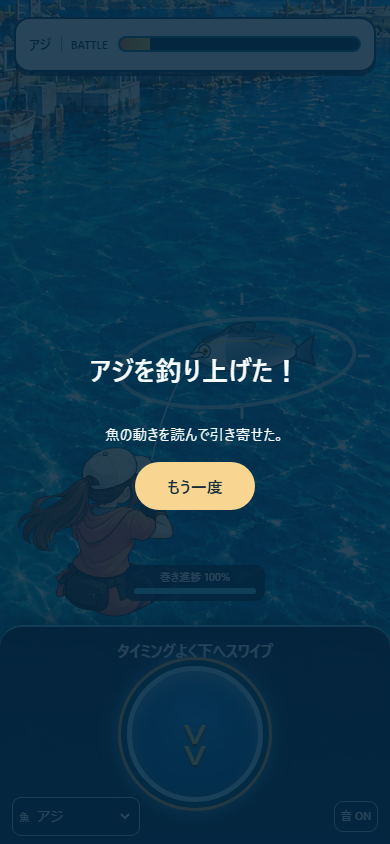
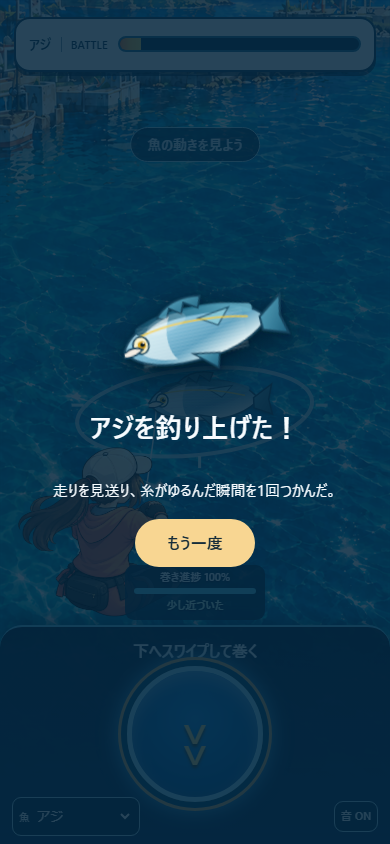
Make AINAN fishing battle clearer and more emotional (#131)

diff --git a/fishing-battle/style.css b/fishing-battle/style.css
@@ -1,1 +1,2 @@
-:root{font-family:system-ui,"Hiragino Kaku Gothic ProN",sans-serif;color:#f7fcff;background:#031d31}*{box-sizing:border-box}body{margin:0}.game{height:100dvh;display:grid;place-items:center}.board{position:relative;width:min(100vw,calc(100dvh * 390 / 844));height:min(100dvh,calc(100vw * 844 / 390));overflow:hidden;background:#0579aa url('./assets/harbor-water.png') center/100% 100% no-repeat;touch-action:none}canvas{position:absolute;inset:0;width:100%;height:100%}.top{position:absolute;z-index:2;top:2%;left:3.5%;width:93%;height:6.5%;min-height:48px;display:flex;align-items:center;gap:10px;padding:0 13px;background:#faffff;border:2px solid #173c56;border-radius:16px;box-shadow:0 4px 0 #001b32a6;color:#12324d}.fish-name{font-size:clamp(13px,3.5vw,18px);font-weight:800;white-space:nowrap}.top strong{font-size:11px;border-left:1px solid #7f9eaf;padding-left:9px}.track{height:16px;background:#092d48;border:2px solid #2c7296;border-radius:30px;overflow:hidden}.top .track{flex:1}.track i{display:block;height:100%;width:0;transition:width .12s}.danger i{background:linear-gradient(90deg,#ff7d39,#ffbd4b,#f9d55c)}.progress{position:absolute;top:67%;left:50%;transform:translateX(-50%);z-index:2;min-width:140px;padding:4px 9px 7px;background:#052944dc;border-radius:9px;text-align:center;font-size:11px;font-weight:800;text-shadow:0 1px 2px #002}.progress .track{height:6px;border:0;margin-top:4px}.progress .track i{background:#5bd5f5}.cue{position:absolute;z-index:3;top:15%;left:50%;transform:translateX(-50%);width:max-content;max-width:90%;padding:7px 16px;border-radius:30px;background:#062e50d9;border:1px solid #b4effe;text-align:center;font-size:14px;font-weight:900;opacity:0;transition:opacity .16s}.cue.rage,.cue.opening{opacity:1}.cue.rage{background:#b82728e9;border-color:#ffc7ae}.cue.opening{background:#055679e9}.controls{position:absolute;z-index:3;bottom:0;left:0;width:100%;height:26%;min-height:150px;display:flex;flex-direction:column;align-items:center;justify-content:flex-start;background:linear-gradient(#061d36f5,#082f55);border-top:2px solid #6dcaf1;border-radius:22px 22px 0 0;box-shadow:0 -5px 18px #001d3b88}.controls p{font-size:clamp(13px,4vw,17px);font-weight:900;margin:13px 0 5px;text-align:center}#reel{width:min(35vw,145px);height:min(35vw,145px);min-width:105px;min-height:105px;border-radius:50%;border:5px solid #9ee4fd;background:radial-gradient(circle at 50% 38%,#178dde,#0361aa 70%,#063c77);box-shadow:0 0 0 6px #06486c,0 0 0 9px #d9ab64,0 0 18px 11px #51caff99,inset 0 7px 16px #c1ebff70;color:#f9dc82;touch-action:none;cursor:pointer}#reel span{display:block;font-size:54px;line-height:.38;transform:translateY(-10px);text-shadow:0 3px 3px #453917}#reel:active{transform:scale(.96)}#rageLabel{margin-top:32px;background:#e6493b;border-radius:11px;padding:12px 18px;font-weight:900}#rageLabel[hidden]{display:none}.controls.is-raging #reel{display:none}.settings{position:absolute;z-index:4;bottom:1%;left:3%;right:3%;display:flex;justify-content:space-between;align-items:center;pointer-events:none}.settings>*{pointer-events:auto}.settings label,.settings button{background:#052841d9;border:1px solid #a2d6e9;border-radius:9px;color:#fff;font-size:11px;padding:3px 6px}.settings select{background:#052841;color:#fff;border:0;max-width:105px}.settings button,.settings select{min-height:31px}.result{position:absolute;z-index:8;inset:0;background:#03253cdb;display:flex;flex-direction:column;align-items:center;justify-content:center;text-align:center;padding:25px}.result[hidden]{display:none}.result h1{font-size:clamp(26px,7vw,36px)}.result p{font-size:15px;line-height:1.7}.result button{min-height:48px;border:0;border-radius:30px;background:#f8d692;color:#162d3a;font:inherit;font-weight:900;padding:10px 32px;cursor:pointer}@media(max-height:700px){.controls{height:28%}.controls p{margin:8px 0 4px}#reel{min-width:88px;min-height:88px;width:26vw;height:26vw}#reel span{font-size:42px}.progress{top:65%}}@media(prefers-reduced-motion:reduce){*,*:before,*:after{animation-duration:.001ms!important;transition-duration:.001ms!important}}
+:root{font-family:system-ui,"Hiragino Kaku Gothic ProN",sans-serif;color:#f7fcff;background:#031d31}*{box-sizing:border-box}body{margin:0}.game{height:100dvh;display:grid;place-items:center}.board{position:relative;width:min(100vw,calc(100dvh * 390 / 844));height:min(100dvh,calc(100vw * 844 / 390));overflow:hidden;background:#0579aa url('./assets/harbor-water.png') center/100% 100% no-repeat;touch-action:none}canvas{position:absolute;inset:0;width:100%;height:100%}.top{position:absolute;z-index:2;top:2%;left:3.5%;width:93%;height:6.5%;min-height:48px;display:flex;align-items:center;gap:10px;padding:0 13px;background:#faffff;border:2px solid #173c56;border-radius:16px;box-shadow:0 4px 0 #001b32a6;color:#12324d}.fish-name{font-size:clamp(13px,3.5vw,18px);font-weight:800;white-space:nowrap}.top strong{font-size:11px;border-left:1px solid #7f9eaf;padding-left:9px}.track{height:16px;background:#092d48;border:2px solid #2c7296;border-radius:30px;overflow:hidden}.top .track{flex:1}.track i{display:block;height:100%;width:0;transition:width .12s}.danger i{background:linear-gradient(90deg,#ff7d39,#ffbd4b,#f9d55c)}.progress{position:absolute;top:67%;left:50%;transform:translateX(-50%);z-index:2;min-width:140px;padding:4px 9px 7px;background:#052944dc;border-radius:9px;text-align:center;font-size:11px;font-weight:800;text-shadow:0 1px 2px #002}.progress .track{height:6px;border:0;margin-top:4px}.progress .track i{background:#5bd5f5}#action{display:block;min-height:1.4em;margin-top:3px;color:#d9faff;font-size:11px}#action.danger-action{color:#ffd0aa}#action.good-action{color:#d2ffef}.cue{position:absolute;z-index:3;top:15%;left:50%;transform:translateX(-50%);width:max-content;max-width:90%;padding:7px 16px;border-radius:30px;background:#062e50d9;border:1px solid #b4effe;text-align:center;font-size:14px;font-weight:900;opacity:.92;transition:opacity .16s}.cue.warning{background:#8c5322ef;border-color:#ffe3a9}.cue.rage{background:#b82728e9;border-color:#ffc7ae}.cue.opening{background:#055679e9}.controls{position:absolute;z-index:3;bottom:0;left:0;width:100%;height:26%;min-height:150px;display:flex;flex-direction:column;align-items:center;justify-content:flex-start;background:linear-gradient(#061d36f5,#082f55);border-top:2px solid #6dcaf1;border-radius:22px 22px 0 0;box-shadow:0 -5px 18px #001d3b88}.controls p{font-size:clamp(13px,4vw,17px);font-weight:900;margin:13px 0 5px;text-align:center}#reel{width:min(35vw,145px);height:min(35vw,145px);min-width:105px;min-height:105px;border-radius:50%;border:5px solid #9ee4fd;background:radial-gradient(circle at 50% 38%,#178dde,#0361aa 70%,#063c77);box-shadow:0 0 0 6px #06486c,0 0 0 9px #d9ab64,0 0 18px 11px #51caff99,inset 0 7px 16px #c1ebff70;color:#f9dc82;touch-action:none;cursor:pointer}#reel span{display:block;font-size:54px;line-height:.38;transform:translateY(-10px);text-shadow:0 3px 3px #453917}#reel:active{transform:scale(.96)}#rageLabel{margin-top:32px;background:#e6493b;border-radius:11px;padding:12px 18px;font-weight:900}#rageLabel[hidden]{display:none}.controls.is-raging #reel{display:none}.settings{position:absolute;z-index:4;bottom:1%;left:3%;right:3%;display:flex;justify-content:space-between;align-items:center;pointer-events:none}.settings>*{pointer-events:auto}.settings label,.settings button{background:#052841d9;border:1px solid #a2d6e9;border-radius:9px;color:#fff;font-size:11px;padding:3px 6px}.settings select{background:#052841;color:#fff;color-scheme:dark;border:0;max-width:105px}.settings button,.settings select{min-height:31px}.result{position:absolute;z-index:8;inset:0;background:#03253cdb;display:flex;flex-direction:column;align-items:center;justify-content:center;text-align:center;padding:25px}.result[hidden]{display:none}.result h1{font-size:clamp(26px,7vw,36px)}.result p{font-size:15px;line-height:1.7}.result button{min-height:48px;border:0;border-radius:30px;background:#f8d692;color:#162d3a;font:inherit;font-weight:900;padding:10px 32px;cursor:pointer}@media(max-height:700px){.controls{height:28%}.controls p{margin:8px 0 4px}#reel{min-width:88px;min-height:88px;width:26vw;height:26vw}#reel span{font-size:42px}.progress{top:65%}}@media(prefers-reduced-motion:reduce){*,*:before,*:after{animation-duration:.001ms!important;transition-duration:.001ms!important}}
+.result img{display:block;width:min(55%,200px);max-height:120px;filter:drop-shadow(0 10px 16px #001d2f);transform:rotate(-12deg);margin-bottom:8px}.result img[hidden]{display:none}

diff --git a/fishing-battle/game.js b/fishing-battle/game.js
@@ -9,7 +9,9 @@ for (const name of ['fight-mid', ...Object.keys(FISH).map(id => `fish_hero_${id}
   image.src = `./assets/${name}.${name === 'fight-mid' ? 'png' : 'svg'}`;
   art[name] = image;
 }
-let state = createBattle(), last = 0, flash = 0, audio;
+let state = createBattle(), last = 0, flash = 0, impact = '', audio;
+let actions = { openingHits: 0, badReels: 0 }, actionUntil = 0;
+let previousCue = 'calm';
 let muted = (() => { try { return localStorage.getItem('fishing-battle-muted') === '1'; } catch { return false; } })();
 
 function tone(frequency, duration, type = 'sine', gain = .04) {
@@ -26,13 +28,21 @@ function tone(frequency, duration, type = 'sine', gain = .04) {
 }
 function feedback(events) {
   for (const event of events) {
+    if (event === 'warning') tone(260, .16, 'triangle', .025);
     if (event === 'rage') tone(145, .3, 'sawtooth');
     if (event === 'opening') tone(560, .2);
     if (event === 'goodReel' || event === 'goodOpening') tone(event === 'goodOpening' ? 650 : 450, .1);
     if (event === 'badReel') tone(100, .25, 'sawtooth', .06);
     if (event === 'caught') { tone(660, .5); setTimeout(() => tone(880, .4), 100); }
     if (event === 'escaped') tone(105, .5, 'triangle');
-    if (['goodReel', 'goodOpening', 'badReel'].includes(event)) flash = .3;
+    if (['goodReel', 'goodOpening', 'badReel'].includes(event)) {
+      flash = .35; impact = event;
+      if (event === 'goodOpening') actions.openingHits++;
+      if (event === 'badReel') actions.badReels++;
+      $('action').textContent = event === 'goodOpening' ? 'ゆるんだ糸を引き寄せた！' : event === 'badReel' ? '糸が強く張った！' : '少し近づいた';
+      $('action').className = event === 'badReel' ? 'danger-action' : 'good-action';
+      actionUntil = state.time + 1.1;
+    }
   }
 }
 function syncUI() {
@@ -42,18 +52,23 @@ function syncUI() {
   $('progressFill').style.width = `${state.reel}%`;
   $('progressValue').textContent = `${Math.round(state.reel)}%`;
   $('cue').className = `cue ${cue}`;
-  const cueText = cue === 'rage' ? '魚が暴れてる！ 今は待つ' : cue === 'opening' ? 'いま巻きどき！' : '';
+  const cueText = cue === 'rage' ? '魚が走った！ 手を止めて' : cue === 'opening' ? '糸がゆるんだ！ いま巻く' : cue === 'warning' ? '糸が張る… もうすぐ走る' : '魚の動きを見よう';
   if ($('cue').textContent !== cueText) $('cue').textContent = cueText;
   document.querySelector('.controls').classList.toggle('is-raging', cue === 'rage');
   $('rageLabel').hidden = cue !== 'rage';
-  const hint = cue === 'rage' ? '暴れ中は待とう' : 'タイミングよく下へスワイプ';
+  const hint = cue === 'rage' ? '暴れが収まるまで待とう' : cue === 'warning' ? '走りそう。指を止めよう' : cue === 'opening' ? 'いま、下へスワイプ！' : '下へスワイプして巻く';
   if ($('hint').textContent !== hint) $('hint').textContent = hint;
+  if ($('action').textContent && state.time >= actionUntil) $('action').textContent = '';
   $('reel').disabled = Boolean(state.outcome);
   if (state.outcome) {
     const newlyEnded = $('result').hidden;
     $('result').hidden = false;
+    $('resultFish').hidden = state.outcome !== 'caught';
+    if (newlyEnded && state.outcome === 'caught') $('resultFish').src = `./assets/fish_hero_${state.fishId}.svg`;
     $('resultTitle').textContent = state.outcome === 'caught' ? `${fish.name}を釣り上げた！` : `${fish.name}が逃げた`;
-    $('resultText').textContent = state.outcome === 'caught' ? '魚の動きを読んで引き寄せた。' : '逃走ゲージが限界に達した。暴れ中は待とう。';
+    $('resultText').textContent = state.outcome === 'caught'
+      ? actions.openingHits ? `走りを見送り、糸がゆるんだ瞬間を${actions.openingHits}回つかんだ。` : '少しずつ糸を巻き、水面まで引き寄せた。'
+      : actions.badReels ? `走る魚に${actions.badReels}回巻いて、糸が張りつめた。次は走りを見送ろう。` : '水の向こうへ消えていった。次は糸がゆるんだ瞬間に巻こう。';
     if (newlyEnded) $('retry').focus();
   }
 }
@@ -64,7 +79,9 @@ function reel() {
 let pointerStart = null;
 board.addEventListener('pointerdown', e => {
   if (e.target.closest('.settings,.result')) return;
+  if (pointerStart) return;
   pointerStart = { id: e.pointerId, x: e.clientX, y: e.clientY, onDial: Boolean(e.target.closest('#reel')) };
+  board.setPointerCapture(e.pointerId);
 });
 board.addEventListener('pointerup', e => {
   if (pointerStart?.id !== e.pointerId) return;
@@ -73,12 +90,12 @@ board.addEventListener('pointerup', e => {
   pointerStart = null;
   if (tapDial || dy >= 34) reel();
 });
-board.addEventListener('pointercancel', () => { pointerStart = null; });
+board.addEventListener('pointercancel', e => { if (pointerStart?.id === e.pointerId) pointerStart = null; });
 document.addEventListener('keydown', e => {
   if (e.code !== 'Space' || e.repeat || !$('result').hidden || ['SELECT', 'BUTTON'].includes(document.activeElement?.tagName)) return;
   e.preventDefault(); reel();
 });
-function restart() { state = createBattle($('fish').value, Date.now()); $('result').hidden = true; syncUI(); }
+function restart() { state = createBattle($('fish').value, Date.now()); actions = { openingHits: 0, badReels: 0 }; previousCue = 'calm'; $('action').textContent = ''; $('result').hidden = true; syncUI(); }
 $('retry').addEventListener('click', restart);
 $('fish').addEventListener('change', restart);
 function syncMute() { $('mute').textContent = muted ? '音 OFF' : '音 ON'; $('mute').setAttribute('aria-pressed', String(muted)); }
@@ -96,20 +113,21 @@ function draw(now) {
   }
   ctx.setTransform(canvas.width / 390, 0, 0, canvas.height / 844, 0, 0);
   ctx.clearRect(0, 0, 390, 844);
-  const t = now / 1000, rage = state.phase === 'rage';
+  const t = now / 1000, cue = battleCue(state), rage = state.phase === 'rage';
   const wave = reduced.matches ? 0 : Math.sin(t * (rage ? 8 : 3));
-  const fishX = 176 + wave * (rage ? 16 : 5);
-  const fishY = 305 + (reduced.matches ? 0 : Math.sin(t * 4) * (rage ? 9 : 3));
+  const distance = Math.max(0, state.reel - 48);
+  const fishX = 176 - distance * .7 + wave * (rage ? 16 : 5) + Math.max(0, state.escape - 45) * .16;
+  const fishY = 305 + distance * 1.05 + (reduced.matches ? 0 : Math.sin(t * 4) * (rage ? 9 : 3));
   // AINAN's Battle composition keeps the hooked fish, player, water and line in one scene.
-  ctx.strokeStyle = rage ? '#ffba69' : '#e8f8ff'; ctx.lineWidth = rage ? 2.3 : 1.5;
+  ctx.strokeStyle = rage || cue === 'warning' ? '#ffba69' : '#e8f8ff'; ctx.lineWidth = rage || cue === 'warning' ? 2.3 : 1.5;
   ctx.beginPath(); ctx.moveTo(146, 490); ctx.quadraticCurveTo(160, 400, fishX + 20, fishY + 45); ctx.stroke();
   ctx.strokeStyle = '#e4faff'; ctx.lineWidth = rage ? 5 : 4; ctx.globalAlpha = rage ? .95 : .72;
   ctx.beginPath(); ctx.ellipse(fishX + 60, fishY + 55, rage ? 132 : 118, rage ? 52 : 43, -.1, 0, Math.PI * 2); ctx.stroke();
   ctx.globalAlpha = 1;
   drawImage(`fish_hero_${state.fishId}`, fishX, fishY, 140, 80);
   drawImage('fight-mid', 8, 409, 184, 218);
-  if (rage || flash > 0) {
-    ctx.strokeStyle = rage ? '#fff1c2' : '#d6f9ff'; ctx.lineWidth = 3;
+  if (rage || cue === 'warning' || flash > 0) {
+    ctx.strokeStyle = rage || cue === 'warning' || impact === 'badReel' ? '#fff1c2' : '#d6f9ff'; ctx.lineWidth = 3;
     for (let i = 0; i < (rage ? 7 : 4); i++) {
       const a = i * Math.PI * 2 / (rage ? 7 : 4);
       const x = fishX + 65 + Math.cos(a) * 116, y = fishY + 48 + Math.sin(a) * 51;
@@ -117,9 +135,13 @@ function draw(now) {
     }
   }
   flash = Math.max(0, flash - .016);
+  if (!flash) impact = '';
   if (last && !document.hidden) {
     stepBattle(state, Math.min((now - last) / 1000, .05));
     if (state.events.length) { feedback(state.events); state.events = []; }
+    const nextCue = battleCue(state);
+    if (nextCue === 'warning' && previousCue !== 'warning') feedback(['warning']);
+    previousCue = nextCue;
     syncUI();
   }
   last = now;

diff --git a/fishing-battle/index.html b/fishing-battle/index.html
@@ -3,9 +3,9 @@
 <body><main class="game"><section class="board" aria-label="釣りバトル">
   <canvas id="sea" aria-hidden="true"></canvas>
   <div class="top"><span class="fish-name" id="fishName">アジ</span><strong>BATTLE</strong><div class="track danger" aria-label="魚の逃走危険度"><i id="dangerFill"></i></div></div>
-  <div class="progress" aria-label="巻き進捗">巻き進捗 <b id="progressValue">48%</b><div class="track"><i id="progressFill"></i></div></div>
+  <div class="progress" aria-label="巻き進捗">巻き進捗 <b id="progressValue">48%</b><div class="track"><i id="progressFill"></i></div><span id="action" aria-live="polite"></span></div>
   <div class="cue" id="cue" role="status" aria-live="polite">魚の動きを見よう</div>
-  <div class="result" id="result" hidden><h1 id="resultTitle"></h1><p id="resultText"></p><button id="retry">もう一度</button></div>
+  <div class="result" id="result" hidden><img id="resultFish" alt="" hidden><h1 id="resultTitle"></h1><p id="resultText"></p><button id="retry">もう一度</button></div>
   <div class="controls"><p id="hint">タイミングよく下へスワイプ</p><button id="reel" type="button" aria-label="巻く。タップまたは下へスワイプ"><span aria-hidden="true">⌄<br>⌄</span></button><div id="rageLabel" hidden>魚が暴れてる！ 今は待つ</div></div>
   <div class="settings"><label>魚 <select id="fish"><option value="aji">アジ</option><option value="tai">マダイ</option><option value="bass">ブラックバス</option><option value="buri">ブリ</option><option value="saba">サバ</option><option value="isaki">イサキ</option><option value="hirame">ヒラメ</option><option value="kanpachi">カンパチ</option><option value="kue">クエ</option></select></label><button id="mute" type="button" aria-pressed="false">音 ON</button></div>
 </section></main><script type="module" src="./game.js"></script></body></html>

diff --git a/fishing-battle/core.js b/fishing-battle/core.js
@@ -93,5 +93,6 @@ export function reelBattle(state) {
 export function battleCue(state) {
   if (state.phase === 'rage') return 'rage';
   if (state.time < state.openingUntil && !state.openingUsed) return 'opening';
+  if (state.phaseUntil - state.time <= .65) return 'warning';
   return 'calm';
 }
